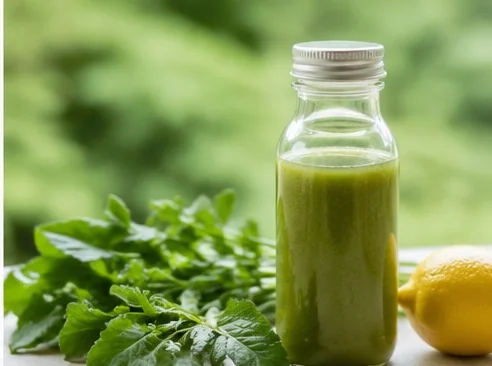
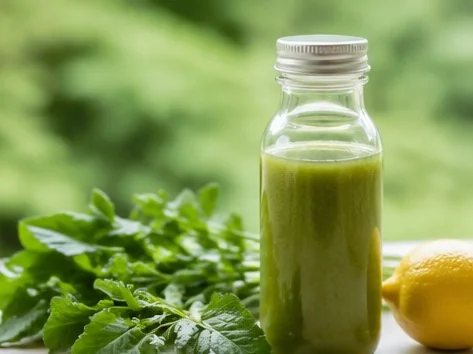
fix: 飲み物画像の左端の白い継ぎ目を除去（再トリミング＋?v=2）

diff --git a/index.html b/index.html
@@ -59,7 +59,7 @@
 <section class="section concept">
   <h2 class="section-title">ファスティングとは</h2>
   <div class="section-sub">ABOUT FASTING</div>
-  <img src="assets/images/02_fasting_drink.webp" alt="オリジナルファスティング液 - 福島県産米の発酵食から生まれたブレンド" class="section-image feature-image" loading="lazy" width="430" height="180">
+  <img src="assets/images/02_fasting_drink.webp?v=2" alt="オリジナルファスティング液 - 福島県産米の発酵食から生まれたブレンド" class="section-image feature-image" loading="lazy" width="430" height="180">
   <div class="lead" style="text-align:left;">
     <p>ファスティング（断食）は、一定期間固形物を控えて<strong>消化器官を休ませる</strong>ことで、身体本来の回復機能を引き出す方法です。</p>
     <p>食べ続ける現代の生活では、内臓が休む時間が不足しがちです。消化に使われていたエネルギーが解放されると、近年注目される<strong>オートファジー（細胞の自己浄化）</strong>のはたらきも期待されます。</p>

diff --git a/tamura/index.html b/tamura/index.html
@@ -171,7 +171,7 @@
 <section class="section">
   <h2 class="section-title">ファスティング液の特徴</h2>
   <div class="section-sub">OUR FASTING DRINK</div>
-  <img src="../assets/images/02_fasting_drink.webp" alt="オリジナルファスティング液 - 福島県産米の発酵食から生まれたブレンド" class="section-image feature-image" loading="lazy" width="430" height="180">
+  <img src="../assets/images/02_fasting_drink.webp?v=2" alt="オリジナルファスティング液 - 福島県産米の発酵食から生まれたブレンド" class="section-image feature-image" loading="lazy" width="430" height="180">
   <div class="feature-list">
     <div class="feature-item"><div class="feature-icon">🔬</div><div class="feature-text"><strong>10年以上の開発実績</strong>。自身と参加者の体験を通じ改良を重ねたオリジナルブレンド</div></div>
     <div class="feature-item"><div class="feature-icon">🌾</div><div class="feature-text"><strong>福島県産米の発酵食</strong>から生まれた麹水、ウコン水、きのこ水を配合</div></div>